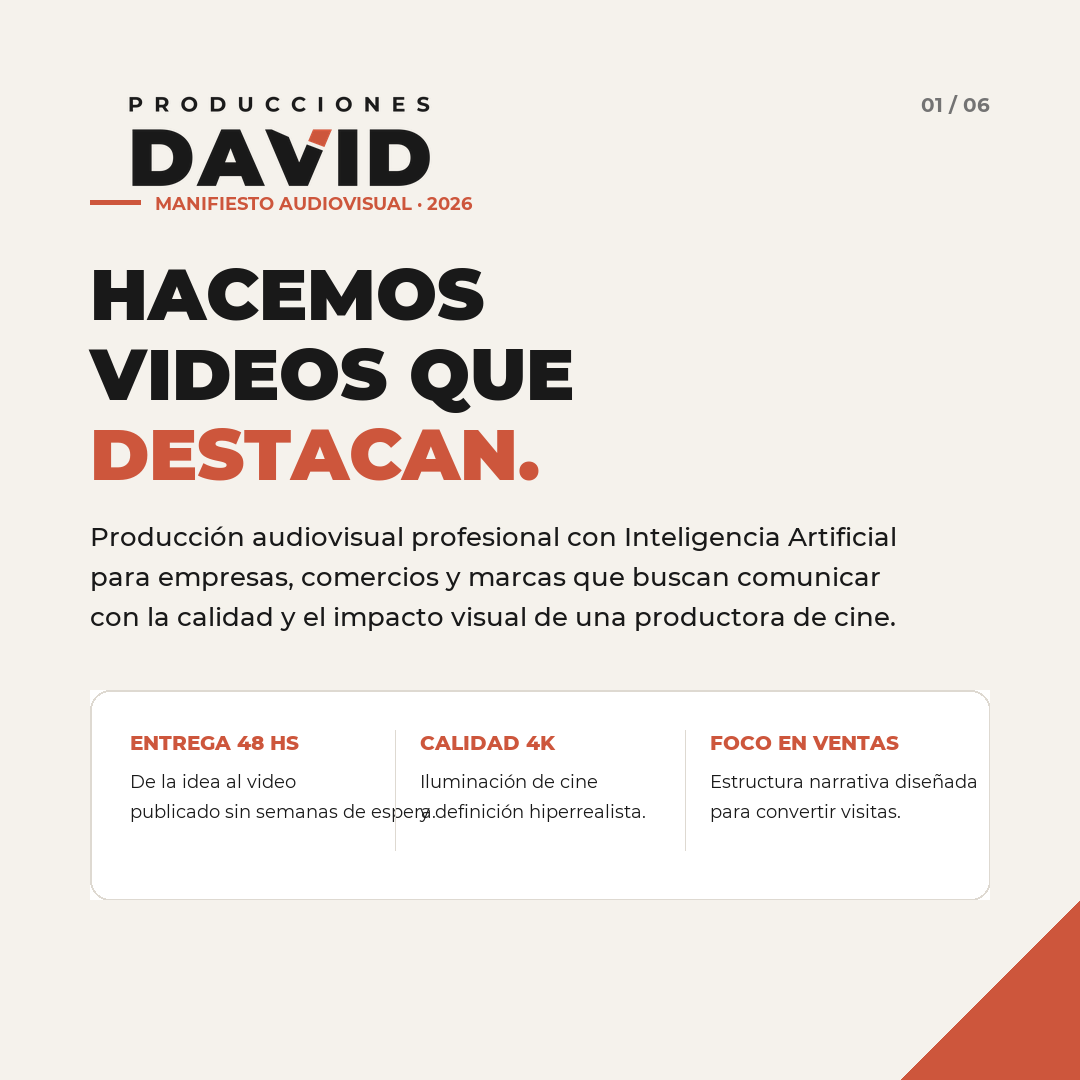
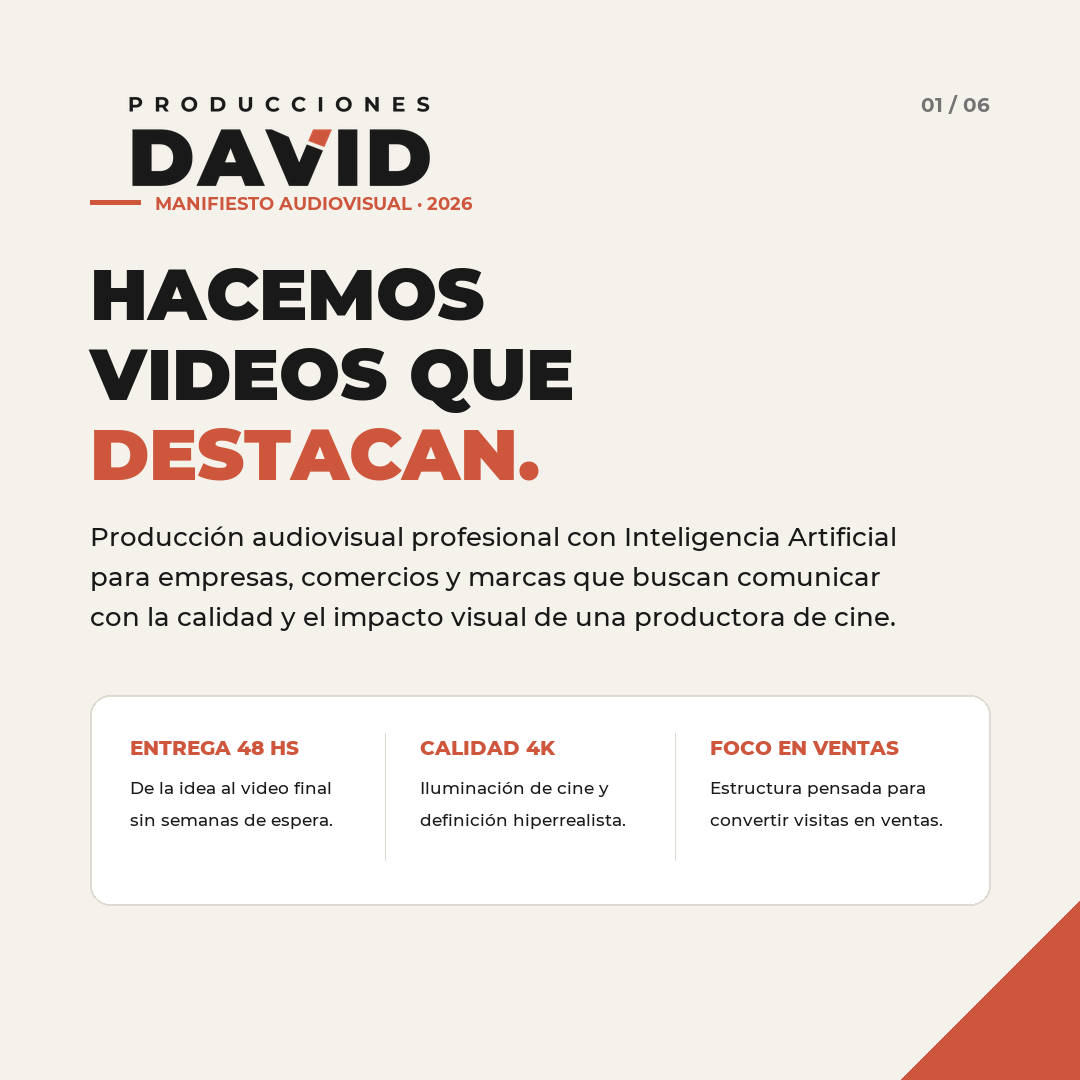
fix(carousel): fix bottom-left card framing and text overlap on slide 1, add pixel text wrapping across all slides

Changed region(s): [[0.1222, 0.6722, 0.5806, 0.7639], [0.6417, 0.6722, 0.9167, 0.7639], [0.8861, 0.825, 0.9167, 0.8556]]

diff --git a/campana-publicitaria-nueva-marca/generar_carrusel.py b/campana-publicitaria-nueva-marca/generar_carrusel.py
@@ -1,10 +1,11 @@
 #!/usr/bin/env python3
 """
-Generador Rediseñado del Carrusel Publicitario Oficial — PRODUCCIONES DAVID
+Generador Perfeccionado del Carrusel Publicitario Oficial — PRODUCCIONES DAVID
 100% fiel al manual de marca:
 - Diseño Editorial Suizo / High-End Minimalista
 - Sin fotos de clientes ni elementos deformados
-- Márgenes amplios, tipografía Montserrat de alta jerarquía y acentos terracota
+- Márgenes amplios de 90 px, tipografía geométrica Montserrat, acento terracota
+- Cero superposiciones de texto: cálculo dinámico de saltos de línea (wrap_text_pixels)
 - Paleta oficial: Marfil #F5F2EC, Carbón #191919, Terracota #CD563C
 """
 from pathlib import Path
@@ -46,12 +47,30 @@ def draw_header(canvas: Image.Image, draw: ImageDraw.Draw, page_num: int, total:
     logo_s = logo_src.resize((lw, lh), Image.Resampling.LANCZOS)
     canvas.paste(logo_s, (90, 80), logo_s)
     
-    # Paginación
+    # Paginación alineada al margen derecho (990 px)
     color_num = (200, 200, 200, 255) if dark else COLOR_MUTED
     draw.text((990, 95), f"{page_num:02d} / {total:02d}", font=font_bold(20), fill=color_num, anchor="rt")
 
+def wrap_text_pixels(text: str, font: ImageFont.FreeTypeFont, max_width: int):
+    """Ajuste de líneas por píxeles para evitar cualquier desborde o superposición."""
+    words = text.split()
+    lines = []
+    curr = []
+    for w in words:
+        test = " ".join(curr + [w])
+        bbox = font.getbbox(test)
+        if (bbox[2] - bbox[0]) <= max_width:
+            curr.append(w)
+        else:
+            if curr:
+                lines.append(" ".join(curr))
+            curr = [w]
+    if curr:
+        lines.append(" ".join(curr))
+    return lines
+
 # ==============================================================
-# SLIDE 1: PORTADA EDITORIAL
+# SLIDE 1: PORTADA EDITORIAL (ENCUADRE MILIMÉTRICO Y SIN OVERFLOW)
 # ==============================================================
 def create_slide_1():
     canvas = Image.new("RGBA", (1080, 1080), COLOR_MARFIL)
@@ -72,33 +91,39 @@ def create_slide_1():
     draw.text((90, 560), "para empresas, comercios y marcas que buscan comunicar", font=font_medium(26), fill=COLOR_CARBON)
     draw.text((90, 600), "con la calidad y el impacto visual de una productora de cine.", font=font_medium(26), fill=COLOR_CARBON)
     
-    # Card Bento de Pilares
-    card = Image.new("RGBA", (900, 210), COLOR_WHITE)
-    c_draw = ImageDraw.Draw(card)
-    c_draw.rounded_rectangle([(0, 0), (900, 210)], radius=20, fill=COLOR_WHITE, outline=COLOR_BORDER, width=2)
+    # Card Bento de Pilares (Dibujado directamente en canvas para anti-aliasing perfecto)
+    card_x = 90
+    card_y = 695
+    card_w = 900
+    card_h = 210
     
-    # 3 Columnas
+    draw.rounded_rectangle(
+        [(card_x, card_y), (card_x + card_w, card_y + card_h)],
+        radius=20,
+        fill=COLOR_WHITE,
+        outline=COLOR_BORDER,
+        width=2
+    )
+    
+    # 3 Columnas perfectamente contenidas dentro de sus cajas
     cols = [
-        ("ENTREGA 48 HS", "De la idea al video publicado sin semanas de espera."),
-        ("CALIDAD 4K", "Iluminación de cine y definición hiperrealista."),
-        ("FOCO EN VENTAS", "Estructura narrativa diseñada para convertir visitas.")
+        ("ENTREGA 48 HS", ["De la idea al video final", "sin semanas de espera."]),
+        ("CALIDAD 4K", ["Iluminación de cine y", "definición hiperrealista."]),
+        ("FOCO EN VENTAS", ["Estructura pensada para", "convertir visitas en ventas."])
     ]
-    for i, (col_t, col_d) in enumerate(cols):
-        cx = 40 + i * 290
-        c_draw.text((cx, 40), col_t, font=font_extrabold(20), fill=COLOR_TERRACOTA)
-        words = col_d.split()
-        mid = len(words) // 2
-        l1 = " ".join(words[:mid])
-        l2 = " ".join(words[mid:])
-        c_draw.text((cx, 80), l1, font=font_regular(18), fill=COLOR_CARBON)
-        c_draw.text((cx, 110), l2, font=font_regular(18), fill=COLOR_CARBON)
+    
+    for i, (col_t, lines) in enumerate(cols):
+        cx = card_x + 40 + i * 290
+        draw.text((cx, card_y + 40), col_t, font=font_extrabold(20), fill=COLOR_TERRACOTA)
+        draw.text((cx, card_y + 82), lines[0], font=font_medium(17), fill=COLOR_CARBON)
+        draw.text((cx, card_y + 114), lines[1], font=font_medium(17), fill=COLOR_CARBON)
         if i < 2:
-            c_draw.line([(cx + 265, 40), (cx + 265, 160)], fill=COLOR_BORDER, width=1)
+            div_x = cx + 255
+            draw.line([(div_x, card_y + 38), (div_x, card_y + 165)], fill=COLOR_BORDER, width=1)
             
-    canvas.paste(card, (90, 690))
     paste_corner_shard(draw, 1080, 1080, 180)
     canvas.convert("RGB").save(OUT_DIR / "slide_01_portada.png", quality=98)
-    print("Slide 1 generado.")
+    print("Slide 1 generado con encuadre corregido.")
 
 # ==============================================================
 # SLIDE 2: EL MODELO TRADICIONAL VS NUEVA ERA
@@ -116,28 +141,24 @@ def create_slide_2():
     
     draw.text((90, 365), "Las marcas modernas no pueden esperar 20 días ni pagar fortunas por un solo reel.", font=font_medium(22), fill=COLOR_MUTED)
     
-    # Card 1: Modelo Tradicional (Gris con borde)
-    card1 = Image.new("RGBA", (900, 230), COLOR_WHITE)
-    c1_draw = ImageDraw.Draw(card1)
-    c1_draw.rounded_rectangle([(0, 0), (900, 230)], radius=18, fill=COLOR_WHITE, outline=COLOR_BORDER, width=2)
-    c1_draw.text((45, 30), "EL MODELO ANTIGUO", font=font_bold(22), fill=(160, 60, 50, 255))
-    c1_draw.text((45, 75), "— Semanas coordinando permisos, locaciones y actores.", font=font_medium(20), fill=COLOR_CARBON)
-    c1_draw.text((45, 115), "— Costos que superan el presupuesto mensual de un negocio.", font=font_medium(20), fill=COLOR_CARBON)
-    c1_draw.text((45, 155), "— Postproducción lenta que hace perder el momento de tendencia.", font=font_medium(20), fill=COLOR_CARBON)
-    canvas.paste(card1, (90, 420))
+    # Card 1: Modelo Tradicional
+    card1_y = 420
+    draw.rounded_rectangle([(90, card1_y), (990, card1_y + 230)], radius=18, fill=COLOR_WHITE, outline=COLOR_BORDER, width=2)
+    draw.text((135, card1_y + 30), "EL MODELO ANTIGUO", font=font_bold(22), fill=(160, 60, 50, 255))
+    draw.text((135, card1_y + 75), "— Semanas coordinando permisos, locaciones y actores.", font=font_medium(20), fill=COLOR_CARBON)
+    draw.text((135, card1_y + 115), "— Costos que superan el presupuesto mensual de un negocio.", font=font_medium(20), fill=COLOR_CARBON)
+    draw.text((135, card1_y + 155), "— Postproducción lenta que hace perder el momento de tendencia.", font=font_medium(20), fill=COLOR_CARBON)
     
-    # Card 2: Con Producciones David (Carbón #191919)
-    card2 = Image.new("RGBA", (900, 290), COLOR_CARBON)
-    c2_draw = ImageDraw.Draw(card2)
-    c2_draw.rounded_rectangle([(0, 0), (900, 290)], radius=18, fill=COLOR_CARBON)
-    c2_draw.rectangle([(0, 0), (900, 6)], fill=COLOR_TERRACOTA)
+    # Card 2: Con Producciones David
+    card2_y = 680
+    draw.rounded_rectangle([(90, card2_y), (990, card2_y + 290)], radius=18, fill=COLOR_CARBON)
+    draw.rectangle([(90, card2_y), (990, card2_y + 6)], fill=COLOR_TERRACOTA)
     
-    c2_draw.text((45, 35), "CON PRODUCCIONES DAVID (IA)", font=font_extrabold(24), fill=COLOR_MARFIL)
-    c2_draw.text((45, 85), "✓ Producción express con entrega en 48 a 72 horas.", font=font_medium(20), fill=COLOR_MARFIL)
-    c2_draw.text((45, 125), "✓ Cualquier locación del mundo generada con realismo cinematográfico.", font=font_medium(20), fill=COLOR_MARFIL)
-    c2_draw.text((45, 165), "✓ Diseñado desde cero para rendimiento y pauta en Meta Ads y TikTok.", font=font_medium(20), fill=COLOR_MARFIL)
-    c2_draw.text((45, 205), "✓ Costos accesibles que permiten publicar contenido continuo.", font=font_bold(20), fill=COLOR_TERRACOTA)
-    canvas.paste(card2, (90, 680))
+    draw.text((135, card2_y + 35), "CON PRODUCCIONES DAVID (IA)", font=font_extrabold(24), fill=COLOR_MARFIL)
+    draw.text((135, card2_y + 85), "✓ Producción express con entrega en 48 a 72 horas.", font=font_medium(20), fill=COLOR_MARFIL)
+    draw.text((135, card2_y + 125), "✓ Cualquier locación del mundo generada con realismo cinematográfico.", font=font_medium(20), fill=COLOR_MARFIL)
+    draw.text((135, card2_y + 165), "✓ Diseñado desde cero para rendimiento y pauta en Meta Ads y TikTok.", font=font_medium(20), fill=COLOR_MARFIL)
+    draw.text((135, card2_y + 205), "✓ Costos accesibles que permiten publicar contenido continuo.", font=font_bold(20), fill=COLOR_TERRACOTA)
     
     paste_corner_shard(draw, 1080, 1080, 180)
     canvas.convert("RGB").save(OUT_DIR / "slide_02_problema_solucion.png", quality=98)
@@ -170,19 +191,15 @@ def create_slide_3():
     
     card_y = 425
     for title, desc in cards:
-        c = Image.new("RGBA", (900, 160), COLOR_WHITE)
-        cd = ImageDraw.Draw(c)
-        cd.rounded_rectangle([(0, 0), (900, 160)], radius=16, fill=COLOR_WHITE, outline=COLOR_BORDER, width=2)
-        cd.rectangle([(0, 25), (6, 135)], fill=COLOR_TERRACOTA)
-        cd.text((40, 28), title, font=font_extrabold(22), fill=COLOR_CARBON)
+        draw.rounded_rectangle([(90, card_y), (990, card_y + 160)], radius=16, fill=COLOR_WHITE, outline=COLOR_BORDER, width=2)
+        draw.rectangle([(90, card_y + 25), (96, card_y + 135)], fill=COLOR_TERRACOTA)
+        draw.text((130, card_y + 28), title, font=font_extrabold(22), fill=COLOR_CARBON)
         
-        words = desc.split()
-        l1 = " ".join(words[:11])
-        l2 = " ".join(words[11:])
-        cd.text((40, 75), l1, font=font_regular(19), fill=COLOR_MUTED)
-        cd.text((40, 108), l2, font=font_regular(19), fill=COLOR_MUTED)
-        
-        canvas.paste(c, (90, card_y))
+        lines = wrap_text_pixels(desc, font_regular(19), 810)
+        draw.text((130, card_y + 75), lines[0], font=font_regular(19), fill=COLOR_MUTED)
+        if len(lines) > 1:
+            draw.text((130, card_y + 108), lines[1], font=font_regular(19), fill=COLOR_MUTED)
+            
         card_y += 185
         
     paste_corner_shard(draw, 1080, 1080, 180)
@@ -216,19 +233,15 @@ def create_slide_4():
     
     card_y = 425
     for title, desc in cards:
-        c = Image.new("RGBA", (900, 160), COLOR_WHITE)
-        cd = ImageDraw.Draw(c)
-        cd.rounded_rectangle([(0, 0), (900, 160)], radius=16, fill=COLOR_WHITE, outline=COLOR_BORDER, width=2)
-        cd.rectangle([(0, 25), (6, 135)], fill=COLOR_TERRACOTA)
-        cd.text((40, 28), title, font=font_extrabold(22), fill=COLOR_CARBON)
+        draw.rounded_rectangle([(90, card_y), (990, card_y + 160)], radius=16, fill=COLOR_WHITE, outline=COLOR_BORDER, width=2)
+        draw.rectangle([(90, card_y + 25), (96, card_y + 135)], fill=COLOR_TERRACOTA)
+        draw.text((130, card_y + 28), title, font=font_extrabold(22), fill=COLOR_CARBON)
         
-        words = desc.split()
-        l1 = " ".join(words[:11])
-        l2 = " ".join(words[11:])
-        cd.text((40, 75), l1, font=font_regular(19), fill=COLOR_MUTED)
-        cd.text((40, 108), l2, font=font_regular(19), fill=COLOR_MUTED)
-        
-        canvas.paste(c, (90, card_y))
+        lines = wrap_text_pixels(desc, font_regular(19), 810)
+        draw.text((130, card_y + 75), lines[0], font=font_regular(19), fill=COLOR_MUTED)
+        if len(lines) > 1:
+            draw.text((130, card_y + 108), lines[1], font=font_regular(19), fill=COLOR_MUTED)
+            
         card_y += 185
         
     paste_corner_shard(draw, 1080, 1080, 180)
@@ -262,19 +275,15 @@ def create_slide_5():
     
     card_y = 425
     for title, desc in cards:
-        c = Image.new("RGBA", (900, 160), COLOR_WHITE)
-        cd = ImageDraw.Draw(c)
-        cd.rounded_rectangle([(0, 0), (900, 160)], radius=16, fill=COLOR_WHITE, outline=COLOR_BORDER, width=2)
-        cd.rectangle([(0, 25), (6, 135)], fill=COLOR_TERRACOTA)
-        cd.text((40, 28), title, font=font_extrabold(22), fill=COLOR_CARBON)
+        draw.rounded_rectangle([(90, card_y), (990, card_y + 160)], radius=16, fill=COLOR_WHITE, outline=COLOR_BORDER, width=2)
+        draw.rectangle([(90, card_y + 25), (96, card_y + 135)], fill=COLOR_TERRACOTA)
+        draw.text((130, card_y + 28), title, font=font_extrabold(22), fill=COLOR_CARBON)
         
-        words = desc.split()
-        l1 = " ".join(words[:11])
-        l2 = " ".join(words[11:])
-        cd.text((40, 75), l1, font=font_regular(19), fill=COLOR_MUTED)
-        cd.text((40, 108), l2, font=font_regular(19), fill=COLOR_MUTED)
-        
-        canvas.paste(c, (90, card_y))
+        lines = wrap_text_pixels(desc, font_regular(19), 810)
+        draw.text((130, card_y + 75), lines[0], font=font_regular(19), fill=COLOR_MUTED)
+        if len(lines) > 1:
+            draw.text((130, card_y + 108), lines[1], font=font_regular(19), fill=COLOR_MUTED)
+            
         card_y += 185
         
     paste_corner_shard(draw, 1080, 1080, 180)
@@ -304,11 +313,11 @@ def create_slide_6():
     draw.text((540, 615), "ESCRIBINOS POR WHATSAPP O DM", font=font_black(28), fill=COLOR_CARBON, anchor="mm")
     draw.text((540, 655), "Coordinamos una asesoría estratégica y muestra sin cargo", font=font_bold(20), fill=COLOR_TERRACOTA, anchor="mm")
     
-    # Filas de Beneficios
+    # Filas de Beneficios perfectamente espaciadas con márgenes simétricos
     b_y = 750
     draw.text((90, b_y), "✓ Entrega en 48 hs", font=font_bold(22), fill=COLOR_MARFIL)
-    draw.text((390, b_y), "✓ Calidad Cinematográfica", font=font_bold(22), fill=COLOR_MARFIL)
-    draw.text((740, b_y), "✓ Enfoque en Conversión", font=font_bold(22), fill=COLOR_MARFIL)
+    draw.text((365, b_y), "✓ Calidad Cinematográfica", font=font_bold(22), fill=COLOR_MARFIL)
+    draw.text((700, b_y), "✓ Enfoque en Conversión", font=font_bold(22), fill=COLOR_MARFIL)
     
     # Línea divisoria
     draw.line([(90, 830), (990, 830)], fill=(50, 50, 50, 255), width=1)
@@ -327,4 +336,4 @@ if __name__ == "__main__":
     create_slide_4()
     create_slide_5()
     create_slide_6()
-    print("🎉 Carrusel rediseñado con éxito en:", OUT_DIR)
+    print("🎉 Carrusel perfeccionado con éxito en:", OUT_DIR)
